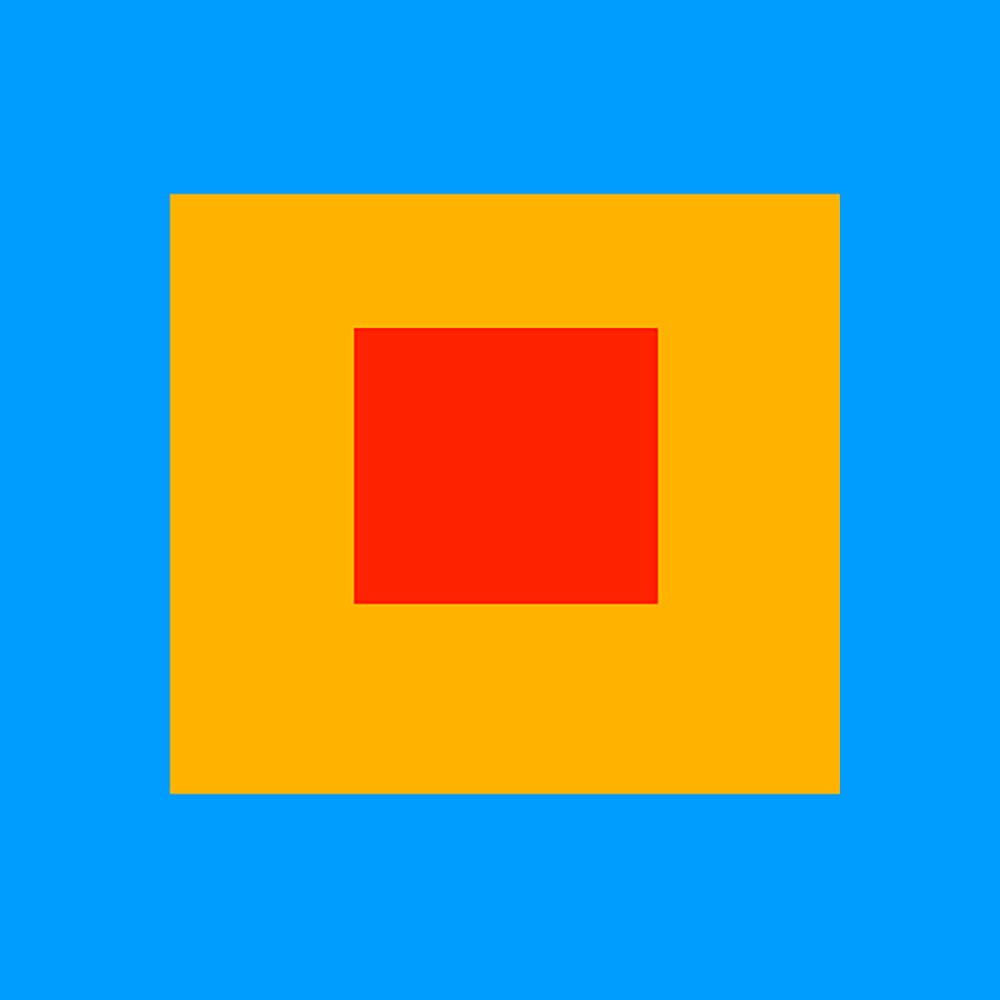
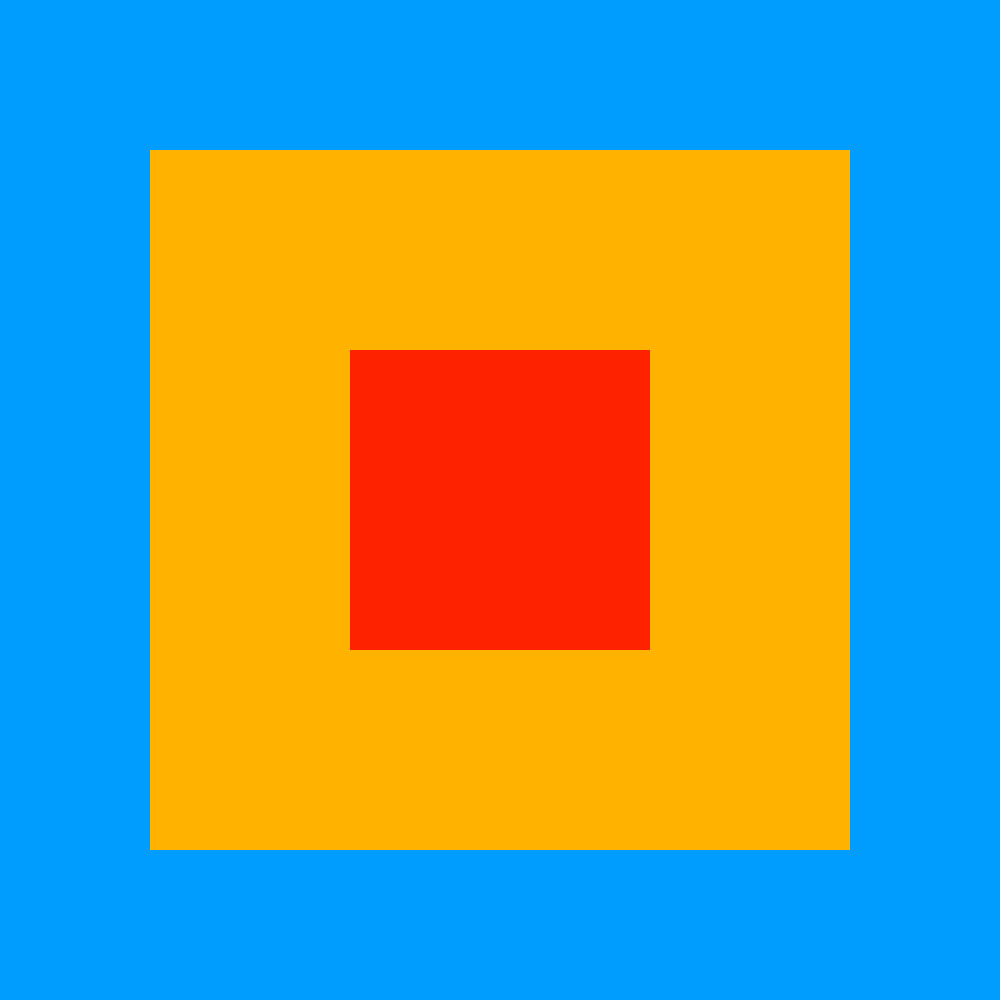
rough code for submission

Changed region(s): [[0.124, 0.124, 0.868, 0.868], [0.341, 0.31, 0.682, 0.651]]

diff --git a/Mosaic.java b/Mosaic.java
@@ -1,3 +1,10 @@
+/**
+ * IAT 455 - Final Project (Meta Meme)
+ * Spring 2022
+ * Amena Salman (301363453)
+ * Taylen Lee-Chin (301371610)
+ **/
+
 import java.awt.Color;
 import java.awt.Font;
 import java.awt.Frame;
@@ -5,7 +12,6 @@ import java.awt.Graphics;
 import java.awt.event.WindowAdapter;
 import java.awt.event.WindowEvent;
 import java.awt.image.BufferedImage;
-import java.awt.image.WritableRaster;
 import java.io.File;
 
 import javax.imageio.ImageIO;
@@ -29,7 +35,9 @@ class Mosaic extends Frame {
 			test2 = ImageIO.read(new File("test2.jpg"));
 			bigSquidward = ImageIO.read(new File("bigSquidward.jpg"));
 
-		} catch (Exception e) {
+		} 
+		
+		catch (Exception e) {
 			System.out.println("Cannot load the provided image");
 		}
 		
@@ -44,6 +52,7 @@ class Mosaic extends Frame {
 				}
 		);
 		
+		//image is currently 1000x1000 so this is calculated down in half to make 500x500
 		artwidth = test.getWidth()/2;
 		artheight = test.getHeight()/2;
 		
@@ -52,7 +61,7 @@ class Mosaic extends Frame {
 
 	}
 	    
-	 public BufferedImage calcPixelAverage(BufferedImage src, int a, int z) { //average colour for the square
+	 public BufferedImage calcPixelAverage(BufferedImage src, int a, int z) { //average color for the square in the referenced image
 		    int r = 0;
 		    int g = 0;
 		    int b = 0;
@@ -65,9 +74,9 @@ class Mosaic extends Frame {
 		    int finalG = 0;
 		    int finalB = 0;
 		    
-		    int pixelNumber = 0;
+		    int pixelNumber = 0; //used to print line about determining which pixel is being calculated
 		    
-		    //Take the RGB values of the pixels to get the total
+		    //for all the pixels in that specific square region
 				    for (int i=0; i< 50; i++ ) {
 				      for (int j=0; j < 50; j++ ) {   
 				    	  
@@ -88,24 +97,28 @@ class Mosaic extends Frame {
 					    pixelAvg[1] = (int)g;
 					    pixelAvg[2] = (int)b;
 					    
-//					    System.out.println("A: "+a+" B: "+z+" // PIXEL: ("+pixelNumber+") "+pixelAvg[0]+" // "+pixelAvg[1]+" // "+pixelAvg[2]);
+					    //print line about square region that is being calculated and the values for each individual pixel
+					    //System.out.println("A: "+a+" B: "+z+" // PIXEL: ("+pixelNumber+") "+pixelAvg[0]+" // "+pixelAvg[1]+" // "+pixelAvg[2]);
 				      }
 				    }
 				    
-				    //average out the values of the calculated area
+				    //average out the pixel values of the calculated square area
 				    finalR = totalR/2500;
 				    finalG = totalG/2500;
 				    finalB = totalB/2500;
 
-				    float hsv[] = new float[3];
-				    float hue = 0;
+				    float hsv[] = new float[3]; //convert values to HSV
+				    float hue = 0; //need to make hue value larger as currently it is quite small
+				    
 				    hsv = Color.RGBtoHSB(finalR, finalG, finalB, null);
 				    
-				    //mult by 100 cause the values are super low
+				    //mult by 100 cause the values are super low currently
 				    hue = hsv[0]*100;
 				    
+				    //see values for the average of each square in the refernced image
 				    System.out.println("Hue : "+hue+" // Bright: "+hsv[2]+" // Final Totals:"+" // "+finalR+" // "+finalG+" // "+finalB);
 				    
+				    //depending on the hue value, select this image to return
 				    if(hue > 11 && hue <= 100) {
 				    	return blue;
 				    }
@@ -122,54 +135,31 @@ class Mosaic extends Frame {
 
 		 }
 	
-//	public static int colorDecide (int v) { // I just stole this from the pokemon link and was going to try and decode
-//		
-//		int num = 0;	//Array subscript
-//		int difference;	//Array value-Absolute value of RGB value v
-//		
-//		int[] list = {64,128,192,192};
-//
-//		difference = Math.abs( list[0] - v );
-//		for (int i = 1; i < list.length; i++ ) {
-//			if ( Math.abs( list[i] - v ) < difference ) {
-//				num = i;
-//				difference = Math.abs( list[i] - v );
-//			}
-//		}
-//		
-// 		return list[num];
-//  }
-	
 
 public void paint(Graphics g) {
+	
+	//slightly offset as it currently creates the first image out of bounds of the window size
 	this.setSize(artwidth + 5, artheight + 25);
-	
-//	calcPixelAverage(turq);
-//	calcPixelAverage(bigSquidward);
-//	calcPixel(blue);
-	
-	g.setColor(Color.BLACK);
-    Font f1 = new Font("Consolas", Font.PLAIN, 13);  
-    g.setFont(f1); 
-    
-    g.drawString("hoi amena i'd like to share with you the best meme to state how the rest of the semester be feeling like",30,55);
     
     int a = 0;
 	int b = 0;
 	
-	int loop1 = artwidth/tileW;
-	int loop2 = artheight/tileH;
+	int loop1 = artwidth/tileW; //place the individual tiles for the columns
+	int loop2 = artheight/tileH; //move the placement for the individual tiles to the next row
+	
+	g.setColor(Color.BLACK);
+    Font f1 = new Font("Consolas", Font.PLAIN, 13);  
+    g.setFont(f1); 
 	
     for(int i = 0; i < loop1; i++) {
     	for (int j = 0; j < loop2; j++) {
-
-    		BufferedImage tileImage = calcPixelAverage(test, a, b);
+    		BufferedImage tileImage = calcPixelAverage(test, a, b); //draw the image and pass the values for the origin point of 0,0 in the pixel calculations
     		g.drawImage(tileImage, j* tileW, i*tileH +25, tileW, tileH, this);
     	
     		//move to the right
     		a+=50;
     		
-    		//reset back to the start
+    		//reset back to the start on the left
     		if (a > 500) {
     			a = 0;
     		}
@@ -179,19 +169,17 @@ public void paint(Graphics g) {
     	b+=50;
     }
     
-//    g.drawImage(bigSquidward, 0, 25, 500, 500, this);
-    g.setColor(Color.BLUE);
-    Font f2 = new Font("Comic Sans MS", Font.PLAIN, 13);  
-    g.setFont(f2); 
-    g.drawString("when herbert says we need study for the final midterm as well as prepare a report and presentation",70,570); 
+//  g.drawImage(bigSquidward, 0, 25, 500, 500, this);
     
 }
 
+//test function created to see if images would be placed properly in selected areas
+
 //public BufferedImage randomImage() {
 //	
-////	int[] image1 = averagePixel(tired);
-////	int[] image2 = averagePixel(handsome);
-////	int[] image3 = averagePixel(art);
+//	int[] image1 = averagePixel(tired);
+//	int[] image2 = averagePixel(handsome);
+//	int[] image3 = averagePixel(art);
 //	
 //	int value = generateNumber(1,5);
 //	
@@ -214,6 +202,8 @@ public void paint(Graphics g) {
 //	else
 //	return tired;
 //}
+
+//test function to generate a random number with min value and max value
 
 //public int generateNumber(int f, int l) {
 //	int min = f;
